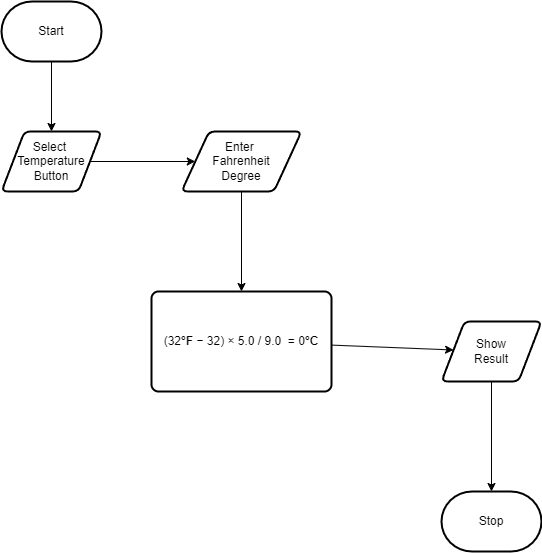
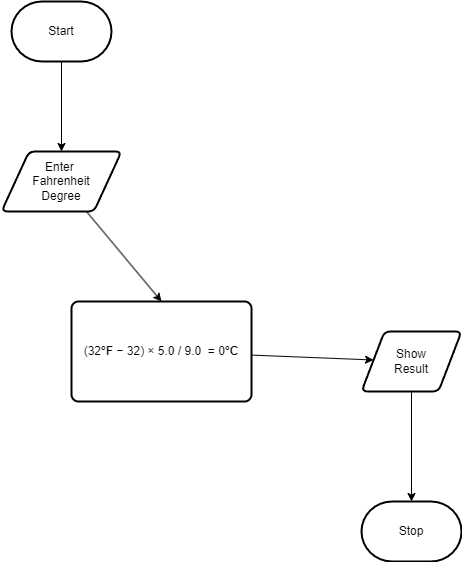
save

diff --git a/index.html b/index.html
@@ -23,28 +23,33 @@
       <div class="mdl-layout__header-row">
       </div>
     </header>
-    <main class="mdl-layout__content">
-      <br />
-      <!--Textfield-->
-      <div class="container">
-        <h2>Temperature Converter</h2>
-        <label for="fahrenheit">Enter Fahrenheit:</label>
-        <input type="number" id="fahrenheit" placeholder="Enter temperature">
-        <div class="form-group">
-          <label for="unit">Choose Unit:</label>
-          <select id="unit">
-            <option value="C">Celsius</option>
-            <option value="F">Fahrenheit</option>
-          </select>
-          <p id="result"></p>
-          <button onclick="temperatureConvert()" id="convertBtn">Convert</button>
-        </div>
-        <p class="formula">Formula is: (fahrenheit - 32) * 5.0 / 9.0</p>
-        <br>
+
+    <br />
+    <!--Textfield-->
+    <div class="container">
+      <p class="formula">Formula is: (fahrenheit - 32) * 5.0 / 9.0</p>
+      <h2>Temperature Converter</h2>
+      <label for="fahrenheit">Enter Fahrenheit:</label>
+      <input type="number" id="fahrenheit" placeholder="Enter temperature">
+      <div class="form-group">
+        <label for="unit">Choose Unit:</label>
+        <select id="unit">
+          <option value="C">Celsius</option>
+          <option value="F">Fahrenheit</option>
+        </select>
         <br />
-        <div class="page-content-answer">
+        <br />
+        <button class="mdl-button mdl-js-button mdl-button--raised mdl-js-ripple-effect mdl-button--accent"
+          onclick="temperatureConvert()" id="convertBtn">Convert</button>
+          <br /> 
+          <br />
+          <p id="result"></p>
       </div>
-    </main>
-  </div>
+      <br>
+      <br />
+      <div class="page-content-answer">
+      </div>
+      </main>
+    </div>
 </body>
 </html>
